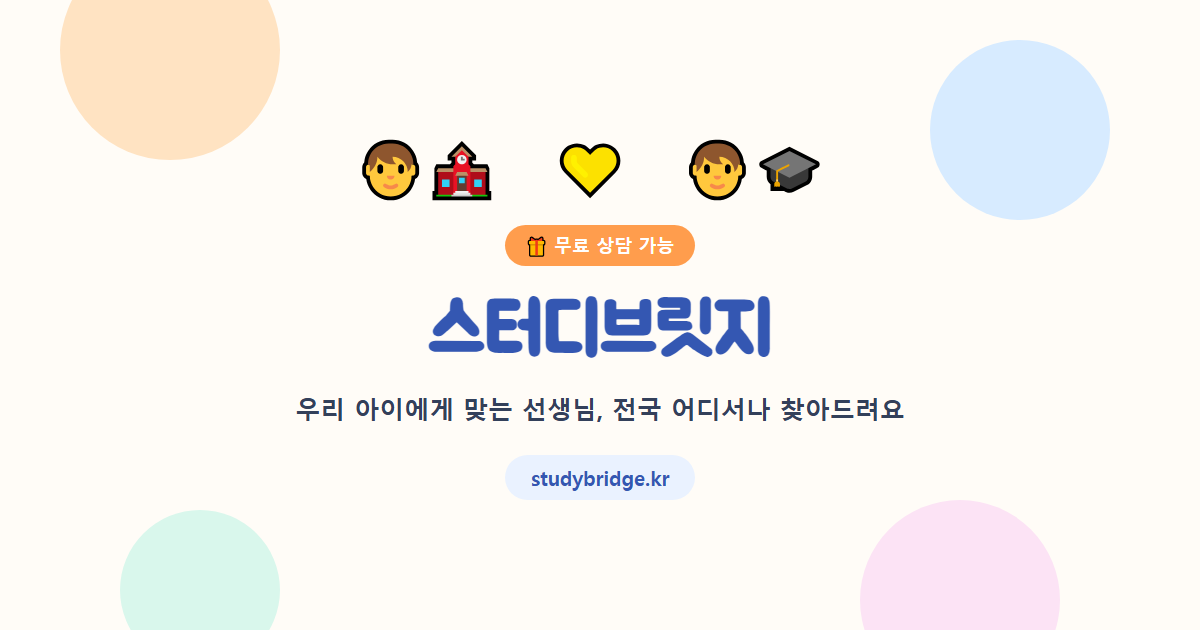
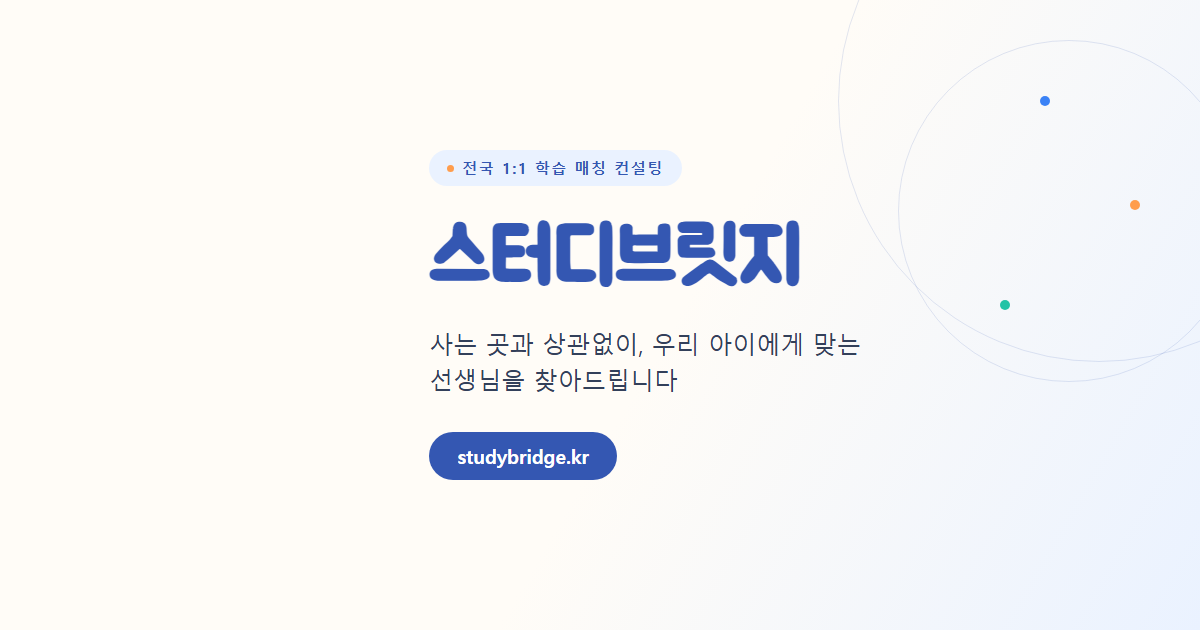
Replace OG image with calmer, more trustworthy design

diff --git a/index.html b/index.html
@@ -13,11 +13,11 @@
 <meta property="og:url" content="https://studybridge.kr/">
 <meta property="og:title" content="스터디브릿지 | 전국 1:1 학습 매칭 컨설팅">
 <meta property="og:description" content="방문 과외와 비대면 화상 수업, 전국 어디서나 우리 아이에게 맞는 선생님을 매칭해드립니다.">
-<meta property="og:image" content="https://studybridge.kr/og-image.png?v=2">
+<meta property="og:image" content="https://studybridge.kr/og-image.png?v=3">
 <meta name="twitter:card" content="summary_large_image">
 <meta name="twitter:title" content="스터디브릿지 | 전국 1:1 학습 매칭 컨설팅">
 <meta name="twitter:description" content="방문 과외와 비대면 화상 수업, 전국 어디서나 우리 아이에게 맞는 선생님을 매칭해드립니다.">
-<meta name="twitter:image" content="https://studybridge.kr/og-image.png?v=2">
+<meta name="twitter:image" content="https://studybridge.kr/og-image.png?v=3">
 
 <link rel="icon" href="data:,">
 